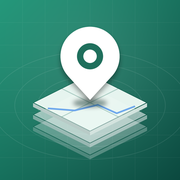
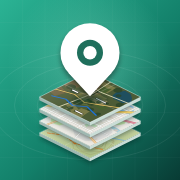
Add files via upload

diff --git a/guide.html b/guide.html
@@ -47,7 +47,7 @@ footer{text-align:center;color:var(--mut);font-size:12.5px;padding:18px}
 <body>
 <header>
 <h1>🗺 راهنمای منوها و نحوهی استفاده</h1>
-<p>WebGIS PWA — سامانهی سبک اطلاعات مکانی موبایلی (آنلاین و آفلاین)<br><b>نسخه سامانه : ۱.۰۵.۲۱</b></p>
+<p>WebGIS PWA — سامانهی سبک اطلاعات مکانی موبایلی (آنلاین و آفلاین)<br><b>نسخه سامانه : ۱.۰۵.۲۲</b></p>
 </header>
 <div class="wrap">
 
@@ -60,7 +60,7 @@ footer{text-align:center;color:var(--mut);font-size:12.5px;padding:18px}
 <p class="sub">برای اولین استفاده در مقر سازمان، با اینترنت یا شبکهی داخلی:</p>
 <ol class="steps">
 <li>آدرس سامانه را در Chrome گوشی باز کنید (<code>https://آدرس-سرور:3443</code>) و در صورت نمایش «نصب برنامه» آن را نصب کنید.</li>
-<li>آیکون برنامه (سنجاق روی لایههای نقشهای) پس از نصب روی صفحهی اصلی گوشی دیده میشود. اگر آیکون قدیمی ماند، برنامه را یک بار ببندید و دوباره باز کنید یا حذف و دوباره نصب کنید.</li>
+<li>آیکون برنامه (سنجاق روی چند لایهی نقشهای: هایبرید، جاده، استاندارد و توپوگرافی) پس از نصب روی صفحهی اصلی گوشی دیده میشود. اگر آیکون قدیمی ماند، برنامه را یک بار ببندید و دوباره باز کنید یا حذف و دوباره نصب کنید.</li>
 <li>اجازهی <b>موقعیت (GPS)</b> و <b>دوربین</b> را بدهید.</li>
 <li>از «لایهها ← همگامسازی نقشهها از سرور» نقشهی پایه و لایههای WMS سازمان را بگیرید.</li>
 <li>برای کار میدانی بدون اینترنت: نقشه را روی منطقه ببرید و «لایهها ← ذخیره نقشه برای آفلاین» را اجرا کنید.</li>
@@ -115,7 +115,7 @@ footer{text-align:center;color:var(--mut);font-size:12.5px;padding:18px}
 <tr><td>هشدار نزدیکی، تنظیمات</td><td>هشدار بیپ و تنظیمات کاربر</td><td>—</td></tr>
 <tr><td><b>راهنمای سامانه</b></td><td>همین راهنما را داخل برنامه نشان میدهد</td><td>با فلش برگشت (یا دکمهی برگشت گوشی) به منوی «سایر» برمیگردید و با یک برگشت دیگر به نقشه. راهنما آفلاین هم باز میشود و با پوستهی انتخابی (سفید/تاریک) هماهنگ است.</td></tr>
 </tbody></table></div>
-<div class="box n"><b>شمارهی نسخه:</b> پایین همین پنل بهصورت کمرنگ نوشته شده است (مثلاً «نسخه سامانه : ۱.۰۵.۲۱»). عدد آخر با هر تغییر یا نسخهی جدید یک واحد زیاد میشود و همین شماره در ابتدای این راهنما هم آمده است.</div>
+<div class="box n"><b>شمارهی نسخه:</b> پایین همین پنل بهصورت کمرنگ نوشته شده است (مثلاً «نسخه سامانه : ۱.۰۵.۲۲»). عدد آخر با هر تغییر یا نسخهی جدید یک واحد زیاد میشود و همین شماره در ابتدای این راهنما هم آمده است.</div>
 <div class="box n">منوهای «باز کردن فایل» و «مختصات» از این جدول برداشته شدهاند: باز کردن فایل با آیکون زیر کنترل لایهها انجام میشود و مختصات داخل کادر جستجو است.</div>
 </section>
 
@@ -403,7 +403,7 @@ footer{text-align:center;color:var(--mut);font-size:12.5px;padding:18px}
 </tbody></table></div>
 </section>
 
-<footer>نسخه ۲۲ — این راهنما کاملاً مستقل (بدون نیاز به اینترنت) است و قابل چاپ است.</footer>
+<footer>این راهنما کاملاً مستقل (بدون نیاز به اینترنت) است و قابل چاپ است.</footer>
 </div>
 </body>
 </html>

diff --git a/index.html b/index.html
@@ -2956,7 +2956,7 @@ function uiBuild(){
  ['bR','bE','bFx','bS','bB','bPx','bSet','bGd'].forEach(id=>{const b=$(id);if(b){b.classList.add('tile');grid.appendChild(b)}});
  ['bL','bMk','bI','bT'].forEach(id=>bar.appendChild($(id)));
  bar.appendChild($('bMore'))}
-const APP_VER='1.05.21'; /* major.minor.counter — the last number grows by 1 with every change */
+const APP_VER='1.05.22'; /* major.minor.counter — the last number grows by 1 with every change */
 $('verLbl').textContent='نسخه سامانه : '+APP_VER.replace(/\d/g,d=>'۰۱۲۳۴۵۶۷۸۹'[d]);
 $('bMore').onclick=()=>openSheet('sMore');
 $('bFx').onclick=()=>openSheet('sFix');$('bPx').onclick=()=>openSheet('sPrx');$('bSet').onclick=()=>openSheet('sSet');$('bGd').onclick=()=>openSheet('sGuide');
